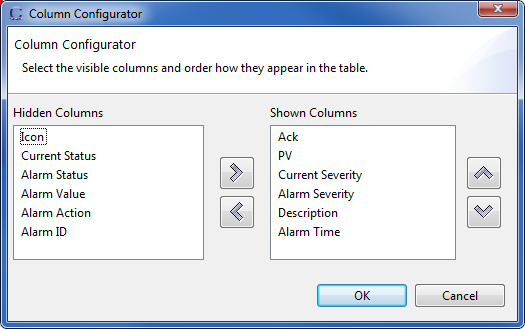
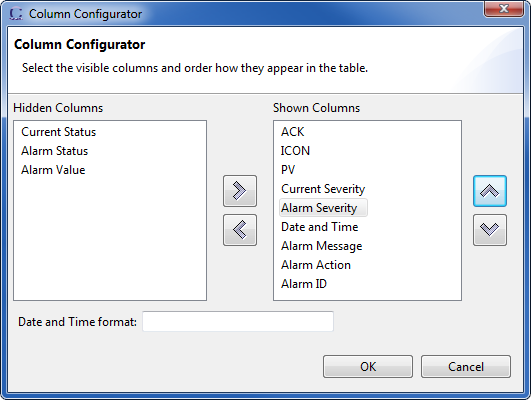
Changelog and help pages updated.

diff --git a/applications/alarm/alarm-plugins/org.csstudio.alarm.beast.ui/html/alarm_system.html b/applications/alarm/alarm-plugins/org.csstudio.alarm.beast.ui/html/alarm_system.html
@@ -630,6 +630,9 @@ For example, one can drag alarms into most email tools or
 the web interface to an elog system. The dragged text will include
 the alarm PV, description, and its current state.
 </p>
+<p>
+Dragging the tree items into an Alarm Table will set the filtering parameters on that alarm table.
+</p> 
 
 
 
@@ -691,9 +694,16 @@ The toolbar on top of Alarm Table provides the functions of
 "Normal/Maintenance Mode Switch" <img src= icons/operate.gif>,
 "Acknowledge" <img src= icons/acknowledge.gif> and
 "Un-Acknowledge" <img src= icons/unacknowledge.gif>
-for the selected items in the table. A menu (downward arrow) 
-with commands to "Combine" and "Separate" tables and to 
-"Configure Columns" is also provided.
+for the selected items in the table. The next three icons are
+related to filtering: show alarms of the configuration selected in
+the tree <img src= icons/sync.gif>, show all alarms of the selected
+root <img src= icons/root.gif>, show alarms that belong to selected
+item <img src= icons/item.gif>.
+</p>
+<p>
+A menu (downward arrow) with commands to create a new table view,
+combine and separate tables, configure and reset columns and to
+select a filter is also provided.
 </p>
 <p>
 The tables for acknowledged and un-acknowledged alarms can either be 
@@ -704,9 +714,49 @@ the presentation from the toolbar menu.
 The contents of both tables can be refined by configuring the columns.
 The toolbar menu provides "Configure Columns" command. The command open
 the Column Configuration Dialog, through which it can be selected, 
-which columns are visible in the table and in what order.
+which columns are visible in the table and in what order. It is also
+possible to define the time format used for the Alarm Time column in the table. 
 </p>
-<img class="float" src="column_configurator.png" alt="Column Configuration Dialog" width="525" height="329"></img>
+<img class="float" src="column_configurator.png" alt="Column Configuration Dialog" width="531" height="400"></img>
+
+<h3>Filtering</h3>
+<p>
+By default alarm table will show all alarms that belong to the configuration
+root selected in the alarm tree. This is shown in the table with the toolbar
+button <img src= icons/sync.gif> being pushed and the title of the table
+displayes the name of the configuration.
+</p> 
+<p>
+If you wish to filter the alarms and show only a subset drag a node from the
+tree and drop it into the table. The table will display only those alarms
+which are equal or are descendants of the dropped item. This is shown by
+the toolbar button <img src= icons/item.gif> being pushed in, the alarm
+table title displays the name of the item and at the top of the table the
+full path of the selected node is displayed. 
+</p>
+<p>
+After a node is dropped on the table that table will stay locked on that 
+particular node. Even if another configuration is selected in the alarm tree,
+the table will still display the alarms that belong to the selected node.
+By pressing the toolbar buttons <img src= icons/root.gif> or <img src= icons/sync.gif>
+all alarms belonging to the root of the selected node or to the root selected
+in the alarm tree can be displayed. 
+</p>
+<p>
+In addition to drag and drop, selecting a filter node is also possible by clicking
+the "Select Filter..." item in the toolbar menu. A dialog will popup, where
+a full path of the item can be entered. If an invalid path is selected, it will
+be shown in the alarm table title.
+</p>
+
+<h3>New Alarm Table</h3>
+<p>
+Additional alarm tables can be open by selecting the "New Table View" from
+the toolbar drop down menu. Each table can be configured separately to show 
+different alarms or different columns (see previous sections). The number of
+tables is not limited. When CSS is closed the settings are stored and are
+restored the next time CSS is started.
+</p>
 
 <h3>Select PVs based on name or description</h3>
 <p>

diff --git a/applications/alarm/alarm-plugins/org.csstudio.alarm.beast/ChangeLog.html b/applications/alarm/alarm-plugins/org.csstudio.alarm.beast/ChangeLog.html
@@ -13,6 +13,17 @@ by all other alarm system tools.
 Revisions before 3.1.0 refer to the associated SNS CSS update.
 </p>
 
+<h2>4.1.0 - 2015-06-09</h2>
+<ul>
+  <li>Alarm Table: Blinking of unacknowledged alarms</li>
+  <li>Alarm Table: Multiple alarm table views</li>
+  <li>Alarm Table: Filtering of displayed alarms based on a selected tree node</li>
+  <li>Alarm Table: Synchronisation of the acknowledged and unacknowledged tables layout</li>
+  <li>Alarm Table: Alarm Time format setting and preference</li>
+  <li>Alarm Table: Preference for the column width, weight and title</li>
+  <li>Alarm Table: Column header tooltips implemented</li>
+</ul>
+
 <h2>4.0.4 - 2015-05-21</h2>
 <ul>
   <li>Alarm Table: Implementation of the Combined and Separated tables for acknowledged and unacknowledged alarms</li>

diff --git a/applications/alarm/alarm-plugins/org.csstudio.alarm.beast.ui.alarmtable/src/org/csstudio/alarm/beast/ui/alarmtable/actions/FilterAction.java b/applications/alarm/alarm-plugins/org.csstudio.alarm.beast.ui.alarmtable/src/org/csstudio/alarm/beast/ui/alarmtable/actions/FilterAction.java
@@ -1,6 +1,6 @@
 package org.csstudio.alarm.beast.ui.alarmtable.actions;
 
-import org.csstudio.alarm.beast.ui.alarmtable.Activator;
+import org.csstudio.alarm.beast.ui.Activator;
 import org.csstudio.alarm.beast.ui.alarmtable.AlarmTableView;
 import org.csstudio.alarm.beast.ui.alarmtable.FilterType;
 import org.csstudio.alarm.beast.ui.alarmtable.Messages;
